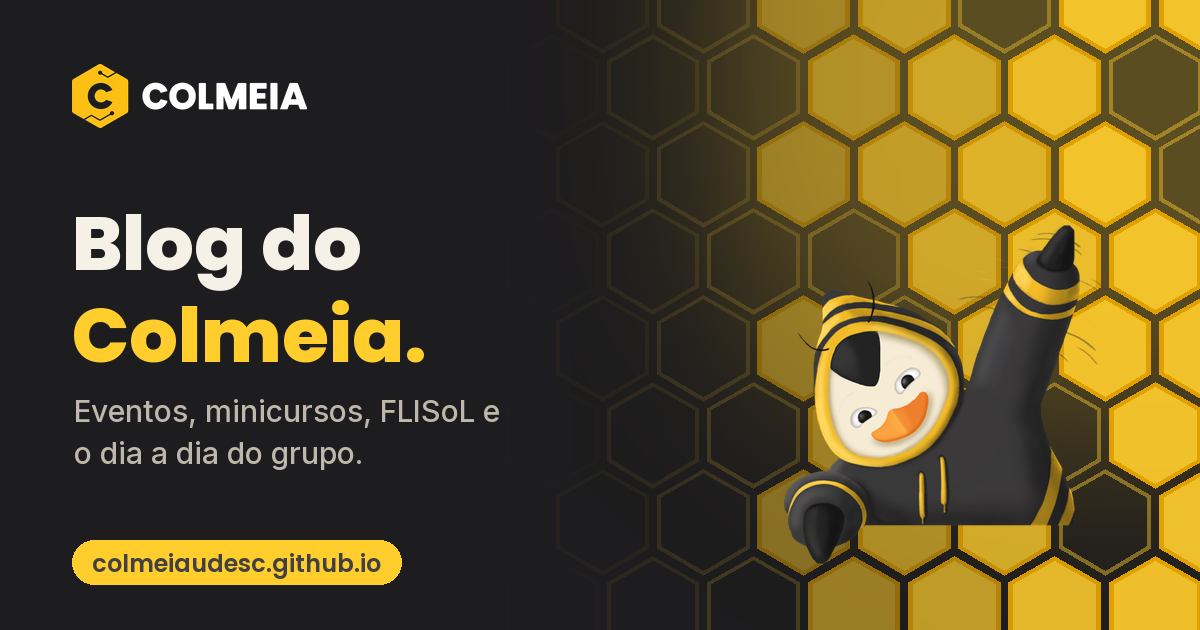
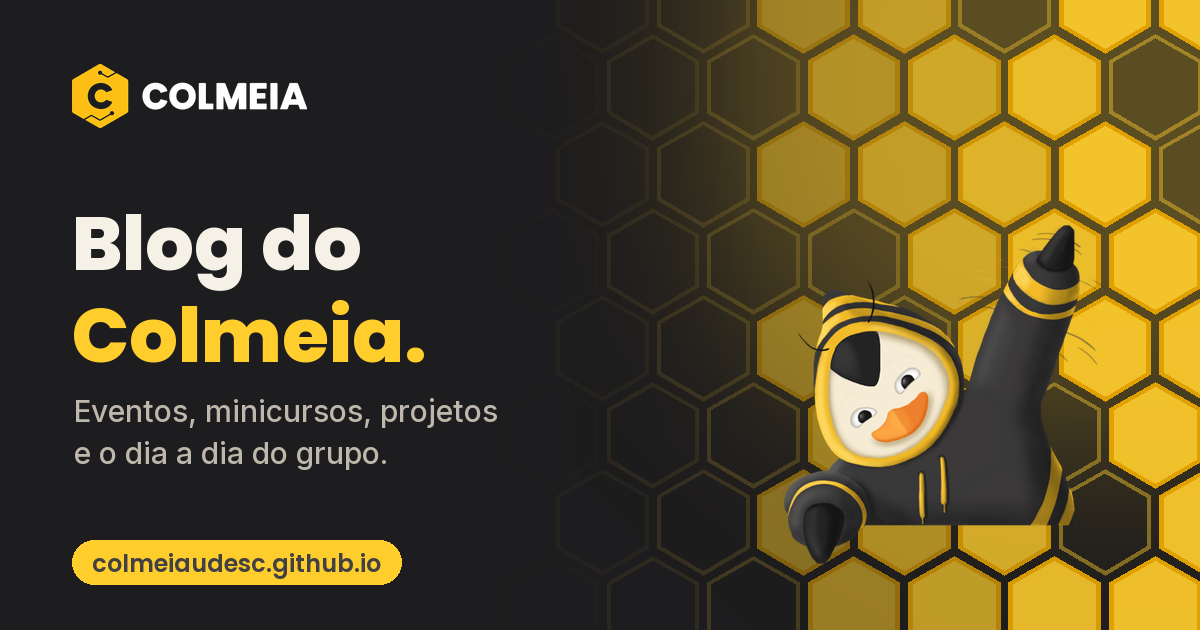
a

Changed region(s): [[0.1542, 0.6937, 0.3083, 0.754], [0.3083, 0.6333, 0.4317, 0.6937], [0.0925, 0.6937, 0.1233, 0.754]]

diff --git a/blog.html b/blog.html
@@ -4,7 +4,7 @@
   <meta charset="UTF-8">
   <meta name="viewport" content="width=device-width, initial-scale=1">
   <title>Blog | Colmeia UDESC</title>
-  <meta name="description" content="Novidades, eventos, minicursos e FLISoL do Colmeia UDESC, o grupo de software livre da UDESC Joinville, direto do nosso Instagram.">
+  <meta name="description" content="Novidades, eventos e minicursos do Colmeia UDESC, o grupo de software livre da UDESC Joinville, direto do nosso Instagram.">
   <link rel="canonical" href="https://colmeiaudesc.github.io/blog.html">
   <meta name="theme-color" content="#1d1c1e">
 
@@ -14,14 +14,14 @@
   <meta property="og:type" content="website">
   <meta property="og:url" content="https://colmeiaudesc.github.io/blog.html">
   <meta property="og:title" content="Blog do Colmeia UDESC">
-  <meta property="og:description" content="Novidades, eventos, minicursos e FLISoL do Colmeia UDESC, o grupo de software livre da UDESC Joinville, direto do nosso Instagram.">
+  <meta property="og:description" content="Novidades, eventos e minicursos do Colmeia UDESC, o grupo de software livre da UDESC Joinville, direto do nosso Instagram.">
   <meta property="og:image" content="https://colmeiaudesc.github.io/assets/img/compartilhar-blog.png">
   <meta property="og:image:width" content="1200">
   <meta property="og:image:height" content="630">
-  <meta property="og:image:alt" content="Blog do Colmeia: eventos, minicursos, FLISoL e o dia a dia do grupo.">
+  <meta property="og:image:alt" content="Blog do Colmeia: eventos, minicursos e o dia a dia do grupo.">
   <meta name="twitter:card" content="summary_large_image">
   <meta name="twitter:title" content="Blog do Colmeia UDESC">
-  <meta name="twitter:description" content="Novidades, eventos, minicursos e FLISoL do Colmeia UDESC, o grupo de software livre da UDESC Joinville, direto do nosso Instagram.">
+  <meta name="twitter:description" content="Novidades, eventos e minicursos do Colmeia UDESC, o grupo de software livre da UDESC Joinville, direto do nosso Instagram.">
   <meta name="twitter:image" content="https://colmeiaudesc.github.io/assets/img/compartilhar-blog.png">
   <link rel="icon" href="assets/img/colmeia-icone.png" type="image/png">
   <link rel="apple-touch-icon" href="assets/img/apple-touch-icon.png">
@@ -29,7 +29,7 @@
   <link rel="preconnect" href="https://fonts.gstatic.com" crossorigin>
   <link href="https://fonts.googleapis.com/css2?family=Inter:wght@400;500;700;800&family=Poppins:wght@600;700;800&family=JetBrains+Mono&display=swap" rel="stylesheet">
   <script src="assets/js/tema.js"></script>
-  <link rel="stylesheet" href="assets/css/colmeia.css?v=13">
+  <link rel="stylesheet" href="assets/css/colmeia.css?v=14">
 </head>
 <body>
 
@@ -67,7 +67,7 @@
         <span class="selo">Direto do Instagram</span>
         <h1>Blog do <em>Colmeia</em></h1>
         <p class="lead">
-          Eventos, minicursos, FLISoL e o dia a dia do grupo. As postagens do
+          Eventos, minicursos, projetos e o dia a dia do grupo. As postagens do
           <a href="https://instagram.com/colmeiaudesc" target="_blank" rel="noopener">@colmeiaudesc</a>
           aparecem aqui automaticamente.
         </p>

diff --git a/index.html b/index.html
@@ -67,7 +67,7 @@
   <link rel="preconnect" href="https://fonts.gstatic.com" crossorigin>
   <link href="https://fonts.googleapis.com/css2?family=Inter:wght@400;500;700;800&family=Poppins:wght@600;700;800&family=JetBrains+Mono&display=swap" rel="stylesheet">
   <script src="assets/js/tema.js"></script>
-  <link rel="stylesheet" href="assets/css/colmeia.css?v=13">
+  <link rel="stylesheet" href="assets/css/colmeia.css?v=14">
 </head>
 <body>
 
@@ -144,7 +144,7 @@
           <div class="card revelar">
             <div class="icone"><svg viewBox="0 0 24 24" fill="none" stroke="currentColor" stroke-width="2" stroke-linecap="round" stroke-linejoin="round" aria-hidden="true"><path d="M8 6v6"/><path d="M15 6v6"/><path d="M2 12h19.6"/><path d="M18 18h3s.5-1.7.8-2.8c.1-.4.2-.8.2-1.2 0-.4-.1-.8-.2-1.2l-1.4-5C20.1 6.8 19.1 6 18 6H4a2 2 0 0 0-2 2v10h3"/><circle cx="7" cy="18" r="2"/><path d="M9 18h5"/><circle cx="16" cy="18" r="2"/></svg></div>
             <h3>Caravanas e eventos</h3>
-            <p>Organizamos caravanas para eventos como a Latinoware e realizamos o FLISoL, o Festival Latino-americano de Instalação de Software Livre.</p>
+            <p>Organizamos caravanas para eventos de software livre, como a Latinoware.</p>
           </div>
           <div class="card revelar">
             <div class="icone"><svg viewBox="0 0 24 24" fill="none" stroke="currentColor" stroke-width="2" stroke-linecap="round" stroke-linejoin="round" aria-hidden="true"><polyline points="4 17 10 11 4 5"/><line x1="12" y1="19" x2="20" y2="19"/></svg></div>
@@ -194,11 +194,6 @@
             <div class="icone"><svg viewBox="0 0 24 24" fill="none" stroke="currentColor" stroke-width="2" stroke-linecap="round" stroke-linejoin="round" aria-hidden="true"><path d="M3 21h18"/><path d="M5 21V9l7-5 7 5v12"/><path d="M9 21v-6h6v6"/></svg></div>
             <h3>Projeto Resgate</h3>
             <p>Aulas de Python para estudantes, com projetos finais como Quiz, Calculadora de IMC e Pedra-Papel-Tesoura.</p>
-          </div>
-          <div class="card revelar">
-            <div class="icone"><svg viewBox="0 0 24 24" fill="none" stroke="currentColor" stroke-width="2" stroke-linecap="round" stroke-linejoin="round" aria-hidden="true"><circle cx="12" cy="12" r="10"/><circle cx="12" cy="12" r="3"/></svg></div>
-            <h3>FLISoL</h3>
-            <p>Festival Latino-americano de Instalação de Software Livre. Traga seu computador e saia com Linux instalado.</p>
           </div>
         </div>
       </div>
@@ -358,7 +353,7 @@
         <div class="titulo-secao revelar">
           <span class="sobretitulo">Contato</span>
           <h2>Quer entrar no Colmeia?</h2>
-          <p>Chama a gente para uma palestra, minicurso, FLISoL ou venha contribuir com o Colmeia Linux.</p>
+          <p>Chama a gente para uma palestra ou minicurso, ou venha contribuir com o Colmeia Linux.</p>
         </div>
         <div class="grade">
           <div class="card revelar">

diff --git a/distro.html b/distro.html
@@ -44,7 +44,7 @@
   <link rel="preconnect" href="https://fonts.gstatic.com" crossorigin>
   <link href="https://fonts.googleapis.com/css2?family=Inter:wght@400;500;700;800&family=Poppins:wght@600;700;800&family=JetBrains+Mono&display=swap" rel="stylesheet">
   <script src="assets/js/tema.js"></script>
-  <link rel="stylesheet" href="assets/css/colmeia.css?v=13">
+  <link rel="stylesheet" href="assets/css/colmeia.css?v=14">
 </head>
 <body>
 
@@ -324,7 +324,7 @@ EOF
           <li><strong>Fase 1:</strong> ISO live mínima com base Debian e identidade visual do Colmeia</li>
           <li><strong>Fase 2:</strong> Pacote de ferramentas de ensino e programação dos minicursos</li>
           <li><strong>Fase 3:</strong> Instalador gráfico (Calamares) e testes em máquinas reais dos laboratórios</li>
-          <li><strong>Fase 4:</strong> Primeira versão estável e lançamento no FLISoL</li>
+          <li><strong>Fase 4:</strong> Primeira versão estável e lançamento oficial</li>
         </ol>
       </div>
     </section>

diff --git a/assets/css/colmeia.css b/assets/css/colmeia.css
@@ -530,7 +530,8 @@ h1, h2, h3, h4 { font-family: "Poppins", "Inter", system-ui, sans-serif; }
 }
 @media (prefers-reduced-motion: reduce) { .zoom img { animation: none; } }
 @media (max-width: 860px) {
-  .hero-distro { grid-template-columns: minmax(0, 1fr); gap: 32px; }
+  .hero-distro { grid-template-columns: minmax(0, 1fr); gap: 28px; }
+  .print-distro { order: -1; }
 }
 
 .sobre-grade {

diff --git a/README.md b/README.md
@@ -12,7 +12,6 @@ Entre as atividades do grupo estão:
 
 - aulas e minicursos de programação com ferramentas livres, como o Projeto Resgate;
 - caravanas para eventos como a Latinoware;
-- organização do FLISoL, o Festival Latino-americano de Instalação de Software Livre;
 - produção de vídeos e materiais abertos no YouTube;
 - desenvolvimento do **Colmeia Linux**, uma distribuição baseada em Debian para estudantes que estão começando no Linux.
 
